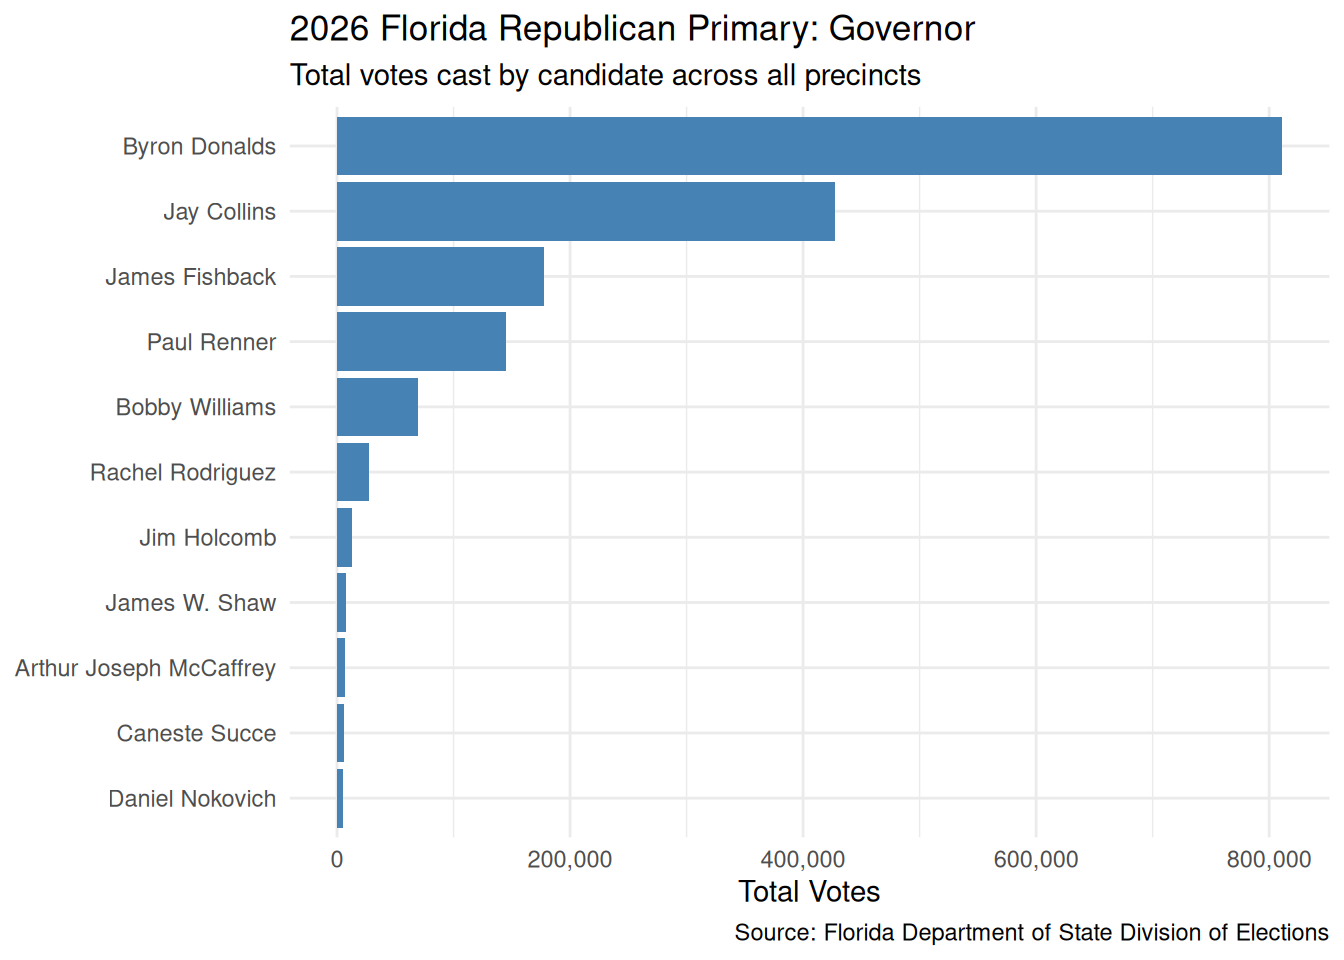
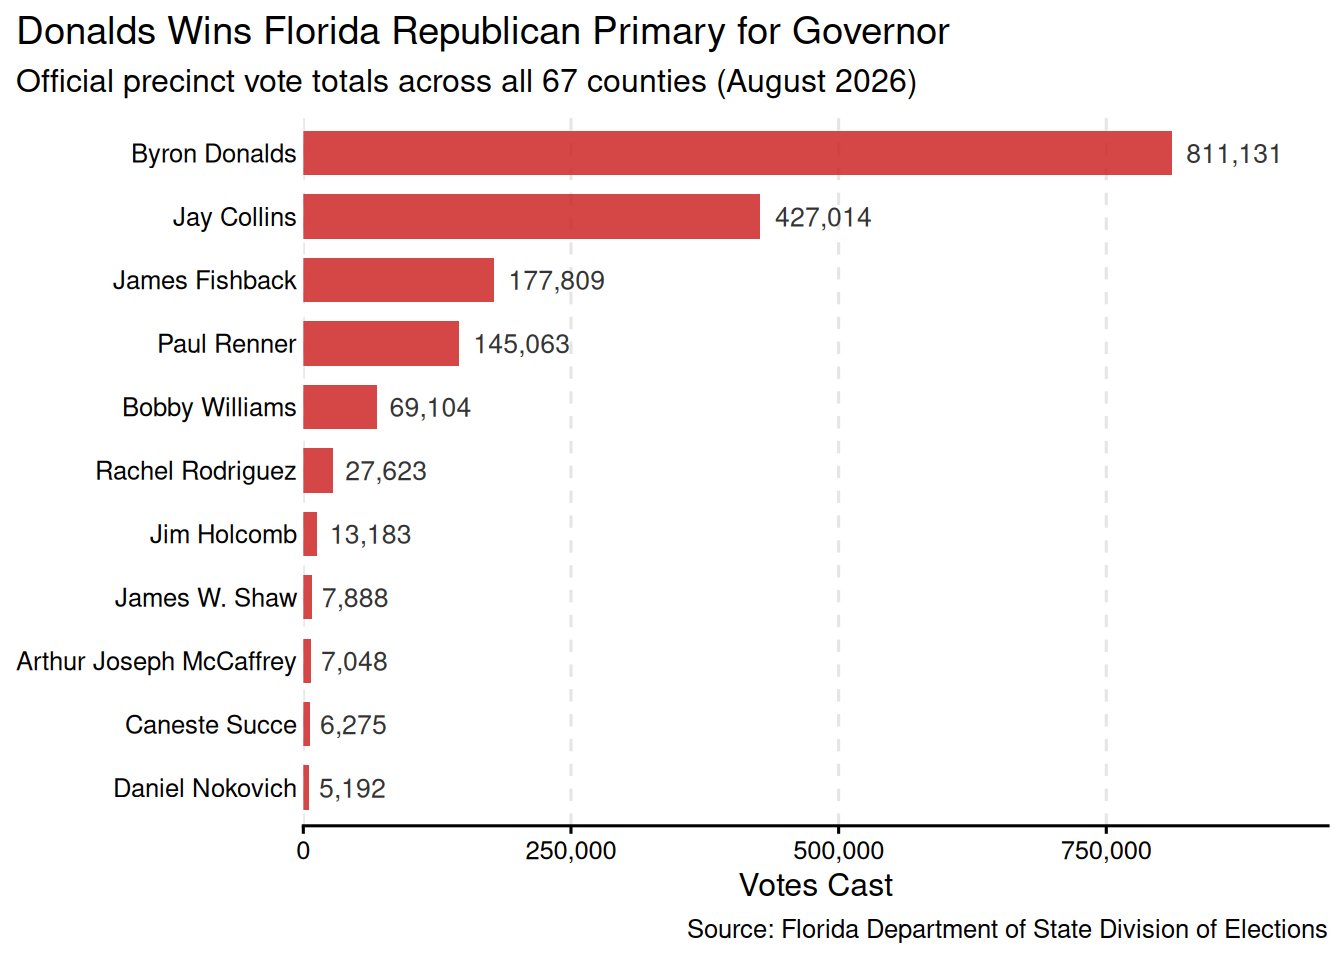
Built site for gh-pages

Changed region(s): [[0.0, 0.0, 1.0, 1.0]]

diff --git a/analysis.html b/analysis.html
@@ -144,16 +144,32 @@ pre > code.sourceCode > span > a:first-child::before { text-decoration: underlin
 <div class="cell">
 <div class="code-copy-outer-scaffold"><div class="sourceCode cell-code" id="cb3"><pre class="sourceCode r code-with-copy"><code class="sourceCode r"><span id="cb3-1"><a href="#cb3-1" aria-hidden="true" tabindex="-1"></a>gov_rep <span class="sc">|&gt;</span></span>
 <span id="cb3-2"><a href="#cb3-2" aria-hidden="true" tabindex="-1"></a>  <span class="fu">ggplot</span>(<span class="fu">aes</span>(<span class="at">x =</span> total_votes, <span class="at">y =</span> <span class="fu">fct_reorder</span>(candidate_name, total_votes))) <span class="sc">+</span></span>
-<span id="cb3-3"><a href="#cb3-3" aria-hidden="true" tabindex="-1"></a>  <span class="fu">geom_col</span>(<span class="at">fill =</span> <span class="st">"steelblue"</span>) <span class="sc">+</span></span>
-<span id="cb3-4"><a href="#cb3-4" aria-hidden="true" tabindex="-1"></a>  <span class="fu">scale_x_continuous</span>(<span class="at">labels =</span> <span class="fu">label_comma</span>()) <span class="sc">+</span></span>
-<span id="cb3-5"><a href="#cb3-5" aria-hidden="true" tabindex="-1"></a>  <span class="fu">labs</span>(</span>
-<span id="cb3-6"><a href="#cb3-6" aria-hidden="true" tabindex="-1"></a>    <span class="at">title =</span> <span class="st">"2026 Florida Republican Primary: Governor"</span>,</span>
-<span id="cb3-7"><a href="#cb3-7" aria-hidden="true" tabindex="-1"></a>    <span class="at">subtitle =</span> <span class="st">"Total votes cast by candidate across all precincts"</span>,</span>
-<span id="cb3-8"><a href="#cb3-8" aria-hidden="true" tabindex="-1"></a>    <span class="at">x =</span> <span class="st">"Total Votes"</span>,</span>
-<span id="cb3-9"><a href="#cb3-9" aria-hidden="true" tabindex="-1"></a>    <span class="at">y =</span> <span class="cn">NULL</span>,</span>
-<span id="cb3-10"><a href="#cb3-10" aria-hidden="true" tabindex="-1"></a>    <span class="at">caption =</span> <span class="st">"Source: Florida Department of State Division of Elections"</span></span>
-<span id="cb3-11"><a href="#cb3-11" aria-hidden="true" tabindex="-1"></a>  ) <span class="sc">+</span></span>
-<span id="cb3-12"><a href="#cb3-12" aria-hidden="true" tabindex="-1"></a>  <span class="fu">theme_minimal</span>()</span></code></pre></div><button title="Copy to Clipboard" class="code-copy-button"><i class="bi"></i></button></div>
+<span id="cb3-3"><a href="#cb3-3" aria-hidden="true" tabindex="-1"></a>  <span class="fu">geom_col</span>(<span class="at">fill =</span> <span class="st">"firebrick3"</span>, <span class="at">alpha =</span> <span class="fl">0.85</span>, <span class="at">width =</span> <span class="fl">0.7</span>) <span class="sc">+</span></span>
+<span id="cb3-4"><a href="#cb3-4" aria-hidden="true" tabindex="-1"></a>  <span class="fu">geom_text</span>(</span>
+<span id="cb3-5"><a href="#cb3-5" aria-hidden="true" tabindex="-1"></a>    <span class="fu">aes</span>(<span class="at">label =</span> <span class="fu">label_comma</span>()(total_votes)),</span>
+<span id="cb3-6"><a href="#cb3-6" aria-hidden="true" tabindex="-1"></a>    <span class="at">hjust =</span> <span class="sc">-</span><span class="fl">0.15</span>,</span>
+<span id="cb3-7"><a href="#cb3-7" aria-hidden="true" tabindex="-1"></a>    <span class="at">size =</span> <span class="fl">3.5</span>,</span>
+<span id="cb3-8"><a href="#cb3-8" aria-hidden="true" tabindex="-1"></a>    <span class="at">color =</span> <span class="st">"gray20"</span></span>
+<span id="cb3-9"><a href="#cb3-9" aria-hidden="true" tabindex="-1"></a>  ) <span class="sc">+</span></span>
+<span id="cb3-10"><a href="#cb3-10" aria-hidden="true" tabindex="-1"></a>  <span class="fu">scale_x_continuous</span>(</span>
+<span id="cb3-11"><a href="#cb3-11" aria-hidden="true" tabindex="-1"></a>    <span class="at">labels =</span> <span class="fu">label_comma</span>(),</span>
+<span id="cb3-12"><a href="#cb3-12" aria-hidden="true" tabindex="-1"></a>    <span class="at">expand =</span> <span class="fu">expansion</span>(<span class="at">mult =</span> <span class="fu">c</span>(<span class="dv">0</span>, <span class="fl">0.18</span>))</span>
+<span id="cb3-13"><a href="#cb3-13" aria-hidden="true" tabindex="-1"></a>  ) <span class="sc">+</span></span>
+<span id="cb3-14"><a href="#cb3-14" aria-hidden="true" tabindex="-1"></a>  <span class="fu">labs</span>(</span>
+<span id="cb3-15"><a href="#cb3-15" aria-hidden="true" tabindex="-1"></a>    <span class="at">title =</span> <span class="st">"Donalds Wins Florida Republican Primary for Governor"</span>,</span>
+<span id="cb3-16"><a href="#cb3-16" aria-hidden="true" tabindex="-1"></a>    <span class="at">subtitle =</span> <span class="st">"Official precinct vote totals across all 67 counties (August 2026)"</span>,</span>
+<span id="cb3-17"><a href="#cb3-17" aria-hidden="true" tabindex="-1"></a>    <span class="at">x =</span> <span class="st">"Votes Cast"</span>,</span>
+<span id="cb3-18"><a href="#cb3-18" aria-hidden="true" tabindex="-1"></a>    <span class="at">y =</span> <span class="cn">NULL</span>,</span>
+<span id="cb3-19"><a href="#cb3-19" aria-hidden="true" tabindex="-1"></a>    <span class="at">caption =</span> <span class="st">"Source: Florida Department of State Division of Elections"</span></span>
+<span id="cb3-20"><a href="#cb3-20" aria-hidden="true" tabindex="-1"></a>  ) <span class="sc">+</span></span>
+<span id="cb3-21"><a href="#cb3-21" aria-hidden="true" tabindex="-1"></a>  <span class="fu">theme_classic</span>(<span class="at">base_size =</span> <span class="dv">12</span>) <span class="sc">+</span></span>
+<span id="cb3-22"><a href="#cb3-22" aria-hidden="true" tabindex="-1"></a>  <span class="fu">theme</span>(</span>
+<span id="cb3-23"><a href="#cb3-23" aria-hidden="true" tabindex="-1"></a>    <span class="at">plot.title.position =</span> <span class="st">"plot"</span>,</span>
+<span id="cb3-24"><a href="#cb3-24" aria-hidden="true" tabindex="-1"></a>    <span class="at">plot.caption.position =</span> <span class="st">"plot"</span>,</span>
+<span id="cb3-25"><a href="#cb3-25" aria-hidden="true" tabindex="-1"></a>    <span class="at">axis.line.y =</span> <span class="fu">element_blank</span>(),</span>
+<span id="cb3-26"><a href="#cb3-26" aria-hidden="true" tabindex="-1"></a>    <span class="at">axis.ticks.y =</span> <span class="fu">element_blank</span>(),</span>
+<span id="cb3-27"><a href="#cb3-27" aria-hidden="true" tabindex="-1"></a>    <span class="at">panel.grid.major.x =</span> <span class="fu">element_line</span>(<span class="at">color =</span> <span class="st">"gray90"</span>, <span class="at">linetype =</span> <span class="st">"dashed"</span>)</span>
+<span id="cb3-28"><a href="#cb3-28" aria-hidden="true" tabindex="-1"></a>  )</span></code></pre></div><button title="Copy to Clipboard" class="code-copy-button"><i class="bi"></i></button></div>
 <div class="cell-output-display">
 <div>
 <figure class="figure">

diff --git a/index.html b/index.html
@@ -144,16 +144,32 @@ pre > code.sourceCode > span > a:first-child::before { text-decoration: underlin
 <div class="cell">
 <div class="code-copy-outer-scaffold"><div class="sourceCode cell-code" id="cb3"><pre class="sourceCode r code-with-copy"><code class="sourceCode r"><span id="cb3-1"><a href="#cb3-1" aria-hidden="true" tabindex="-1"></a>gov_rep <span class="sc">|&gt;</span></span>
 <span id="cb3-2"><a href="#cb3-2" aria-hidden="true" tabindex="-1"></a>  <span class="fu">ggplot</span>(<span class="fu">aes</span>(<span class="at">x =</span> total_votes, <span class="at">y =</span> <span class="fu">fct_reorder</span>(candidate_name, total_votes))) <span class="sc">+</span></span>
-<span id="cb3-3"><a href="#cb3-3" aria-hidden="true" tabindex="-1"></a>  <span class="fu">geom_col</span>(<span class="at">fill =</span> <span class="st">"steelblue"</span>) <span class="sc">+</span></span>
-<span id="cb3-4"><a href="#cb3-4" aria-hidden="true" tabindex="-1"></a>  <span class="fu">scale_x_continuous</span>(<span class="at">labels =</span> <span class="fu">label_comma</span>()) <span class="sc">+</span></span>
-<span id="cb3-5"><a href="#cb3-5" aria-hidden="true" tabindex="-1"></a>  <span class="fu">labs</span>(</span>
-<span id="cb3-6"><a href="#cb3-6" aria-hidden="true" tabindex="-1"></a>    <span class="at">title =</span> <span class="st">"2026 Florida Republican Primary: Governor"</span>,</span>
-<span id="cb3-7"><a href="#cb3-7" aria-hidden="true" tabindex="-1"></a>    <span class="at">subtitle =</span> <span class="st">"Total votes cast by candidate across all precincts"</span>,</span>
-<span id="cb3-8"><a href="#cb3-8" aria-hidden="true" tabindex="-1"></a>    <span class="at">x =</span> <span class="st">"Total Votes"</span>,</span>
-<span id="cb3-9"><a href="#cb3-9" aria-hidden="true" tabindex="-1"></a>    <span class="at">y =</span> <span class="cn">NULL</span>,</span>
-<span id="cb3-10"><a href="#cb3-10" aria-hidden="true" tabindex="-1"></a>    <span class="at">caption =</span> <span class="st">"Source: Florida Department of State Division of Elections"</span></span>
-<span id="cb3-11"><a href="#cb3-11" aria-hidden="true" tabindex="-1"></a>  ) <span class="sc">+</span></span>
-<span id="cb3-12"><a href="#cb3-12" aria-hidden="true" tabindex="-1"></a>  <span class="fu">theme_minimal</span>()</span></code></pre></div><button title="Copy to Clipboard" class="code-copy-button"><i class="bi"></i></button></div>
+<span id="cb3-3"><a href="#cb3-3" aria-hidden="true" tabindex="-1"></a>  <span class="fu">geom_col</span>(<span class="at">fill =</span> <span class="st">"firebrick3"</span>, <span class="at">alpha =</span> <span class="fl">0.85</span>, <span class="at">width =</span> <span class="fl">0.7</span>) <span class="sc">+</span></span>
+<span id="cb3-4"><a href="#cb3-4" aria-hidden="true" tabindex="-1"></a>  <span class="fu">geom_text</span>(</span>
+<span id="cb3-5"><a href="#cb3-5" aria-hidden="true" tabindex="-1"></a>    <span class="fu">aes</span>(<span class="at">label =</span> <span class="fu">label_comma</span>()(total_votes)),</span>
+<span id="cb3-6"><a href="#cb3-6" aria-hidden="true" tabindex="-1"></a>    <span class="at">hjust =</span> <span class="sc">-</span><span class="fl">0.15</span>,</span>
+<span id="cb3-7"><a href="#cb3-7" aria-hidden="true" tabindex="-1"></a>    <span class="at">size =</span> <span class="fl">3.5</span>,</span>
+<span id="cb3-8"><a href="#cb3-8" aria-hidden="true" tabindex="-1"></a>    <span class="at">color =</span> <span class="st">"gray20"</span></span>
+<span id="cb3-9"><a href="#cb3-9" aria-hidden="true" tabindex="-1"></a>  ) <span class="sc">+</span></span>
+<span id="cb3-10"><a href="#cb3-10" aria-hidden="true" tabindex="-1"></a>  <span class="fu">scale_x_continuous</span>(</span>
+<span id="cb3-11"><a href="#cb3-11" aria-hidden="true" tabindex="-1"></a>    <span class="at">labels =</span> <span class="fu">label_comma</span>(),</span>
+<span id="cb3-12"><a href="#cb3-12" aria-hidden="true" tabindex="-1"></a>    <span class="at">expand =</span> <span class="fu">expansion</span>(<span class="at">mult =</span> <span class="fu">c</span>(<span class="dv">0</span>, <span class="fl">0.18</span>))</span>
+<span id="cb3-13"><a href="#cb3-13" aria-hidden="true" tabindex="-1"></a>  ) <span class="sc">+</span></span>
+<span id="cb3-14"><a href="#cb3-14" aria-hidden="true" tabindex="-1"></a>  <span class="fu">labs</span>(</span>
+<span id="cb3-15"><a href="#cb3-15" aria-hidden="true" tabindex="-1"></a>    <span class="at">title =</span> <span class="st">"Donalds Wins Florida Republican Primary for Governor"</span>,</span>
+<span id="cb3-16"><a href="#cb3-16" aria-hidden="true" tabindex="-1"></a>    <span class="at">subtitle =</span> <span class="st">"Official precinct vote totals across all 67 counties (August 2026)"</span>,</span>
+<span id="cb3-17"><a href="#cb3-17" aria-hidden="true" tabindex="-1"></a>    <span class="at">x =</span> <span class="st">"Votes Cast"</span>,</span>
+<span id="cb3-18"><a href="#cb3-18" aria-hidden="true" tabindex="-1"></a>    <span class="at">y =</span> <span class="cn">NULL</span>,</span>
+<span id="cb3-19"><a href="#cb3-19" aria-hidden="true" tabindex="-1"></a>    <span class="at">caption =</span> <span class="st">"Source: Florida Department of State Division of Elections"</span></span>
+<span id="cb3-20"><a href="#cb3-20" aria-hidden="true" tabindex="-1"></a>  ) <span class="sc">+</span></span>
+<span id="cb3-21"><a href="#cb3-21" aria-hidden="true" tabindex="-1"></a>  <span class="fu">theme_classic</span>(<span class="at">base_size =</span> <span class="dv">12</span>) <span class="sc">+</span></span>
+<span id="cb3-22"><a href="#cb3-22" aria-hidden="true" tabindex="-1"></a>  <span class="fu">theme</span>(</span>
+<span id="cb3-23"><a href="#cb3-23" aria-hidden="true" tabindex="-1"></a>    <span class="at">plot.title.position =</span> <span class="st">"plot"</span>,</span>
+<span id="cb3-24"><a href="#cb3-24" aria-hidden="true" tabindex="-1"></a>    <span class="at">plot.caption.position =</span> <span class="st">"plot"</span>,</span>
+<span id="cb3-25"><a href="#cb3-25" aria-hidden="true" tabindex="-1"></a>    <span class="at">axis.line.y =</span> <span class="fu">element_blank</span>(),</span>
+<span id="cb3-26"><a href="#cb3-26" aria-hidden="true" tabindex="-1"></a>    <span class="at">axis.ticks.y =</span> <span class="fu">element_blank</span>(),</span>
+<span id="cb3-27"><a href="#cb3-27" aria-hidden="true" tabindex="-1"></a>    <span class="at">panel.grid.major.x =</span> <span class="fu">element_line</span>(<span class="at">color =</span> <span class="st">"gray90"</span>, <span class="at">linetype =</span> <span class="st">"dashed"</span>)</span>
+<span id="cb3-28"><a href="#cb3-28" aria-hidden="true" tabindex="-1"></a>  )</span></code></pre></div><button title="Copy to Clipboard" class="code-copy-button"><i class="bi"></i></button></div>
 <div class="cell-output-display">
 <div>
 <figure class="figure">
